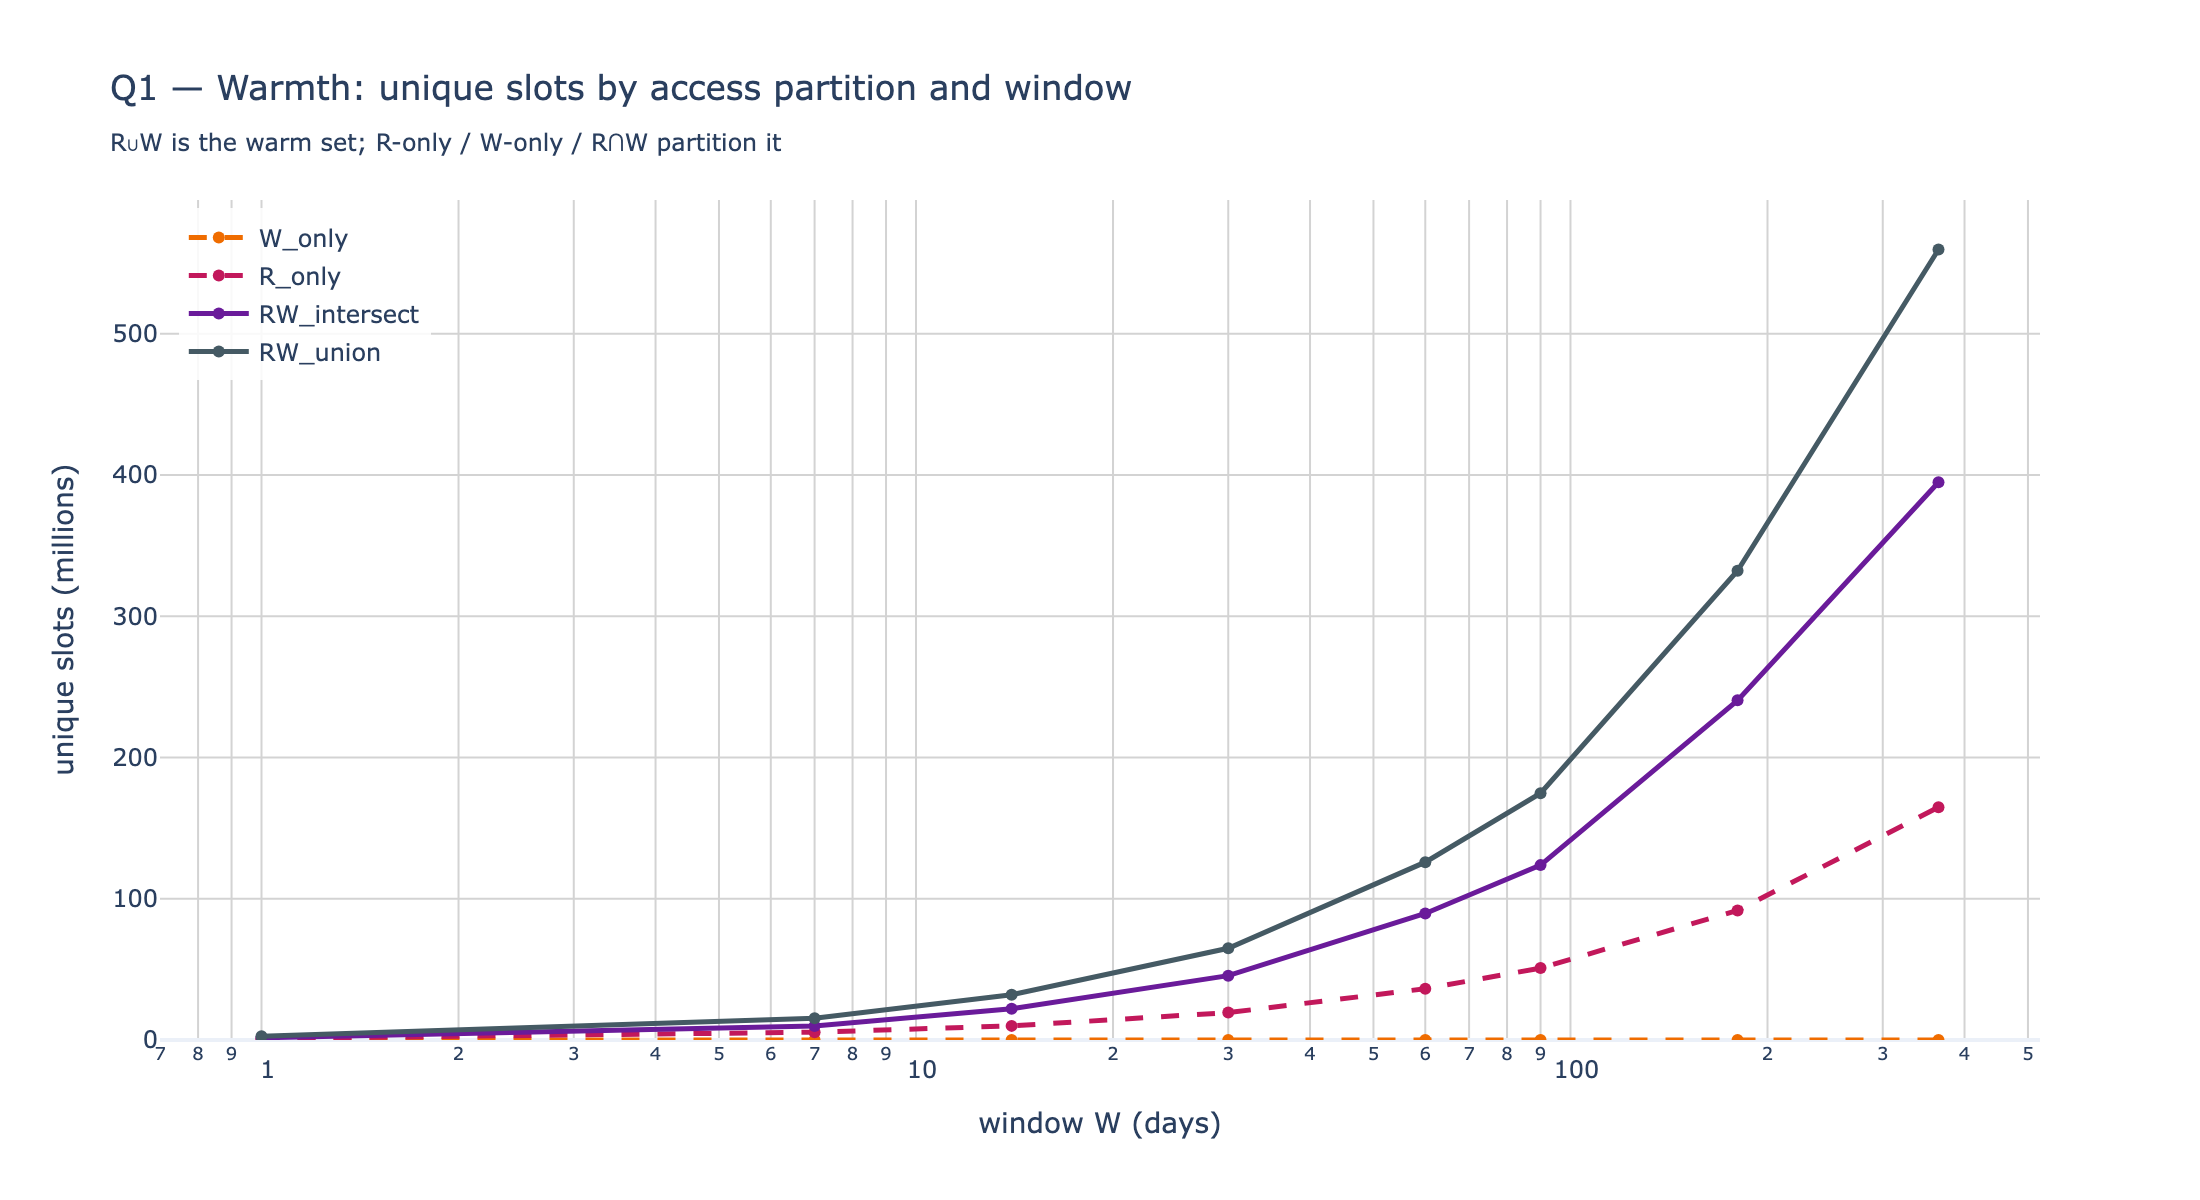
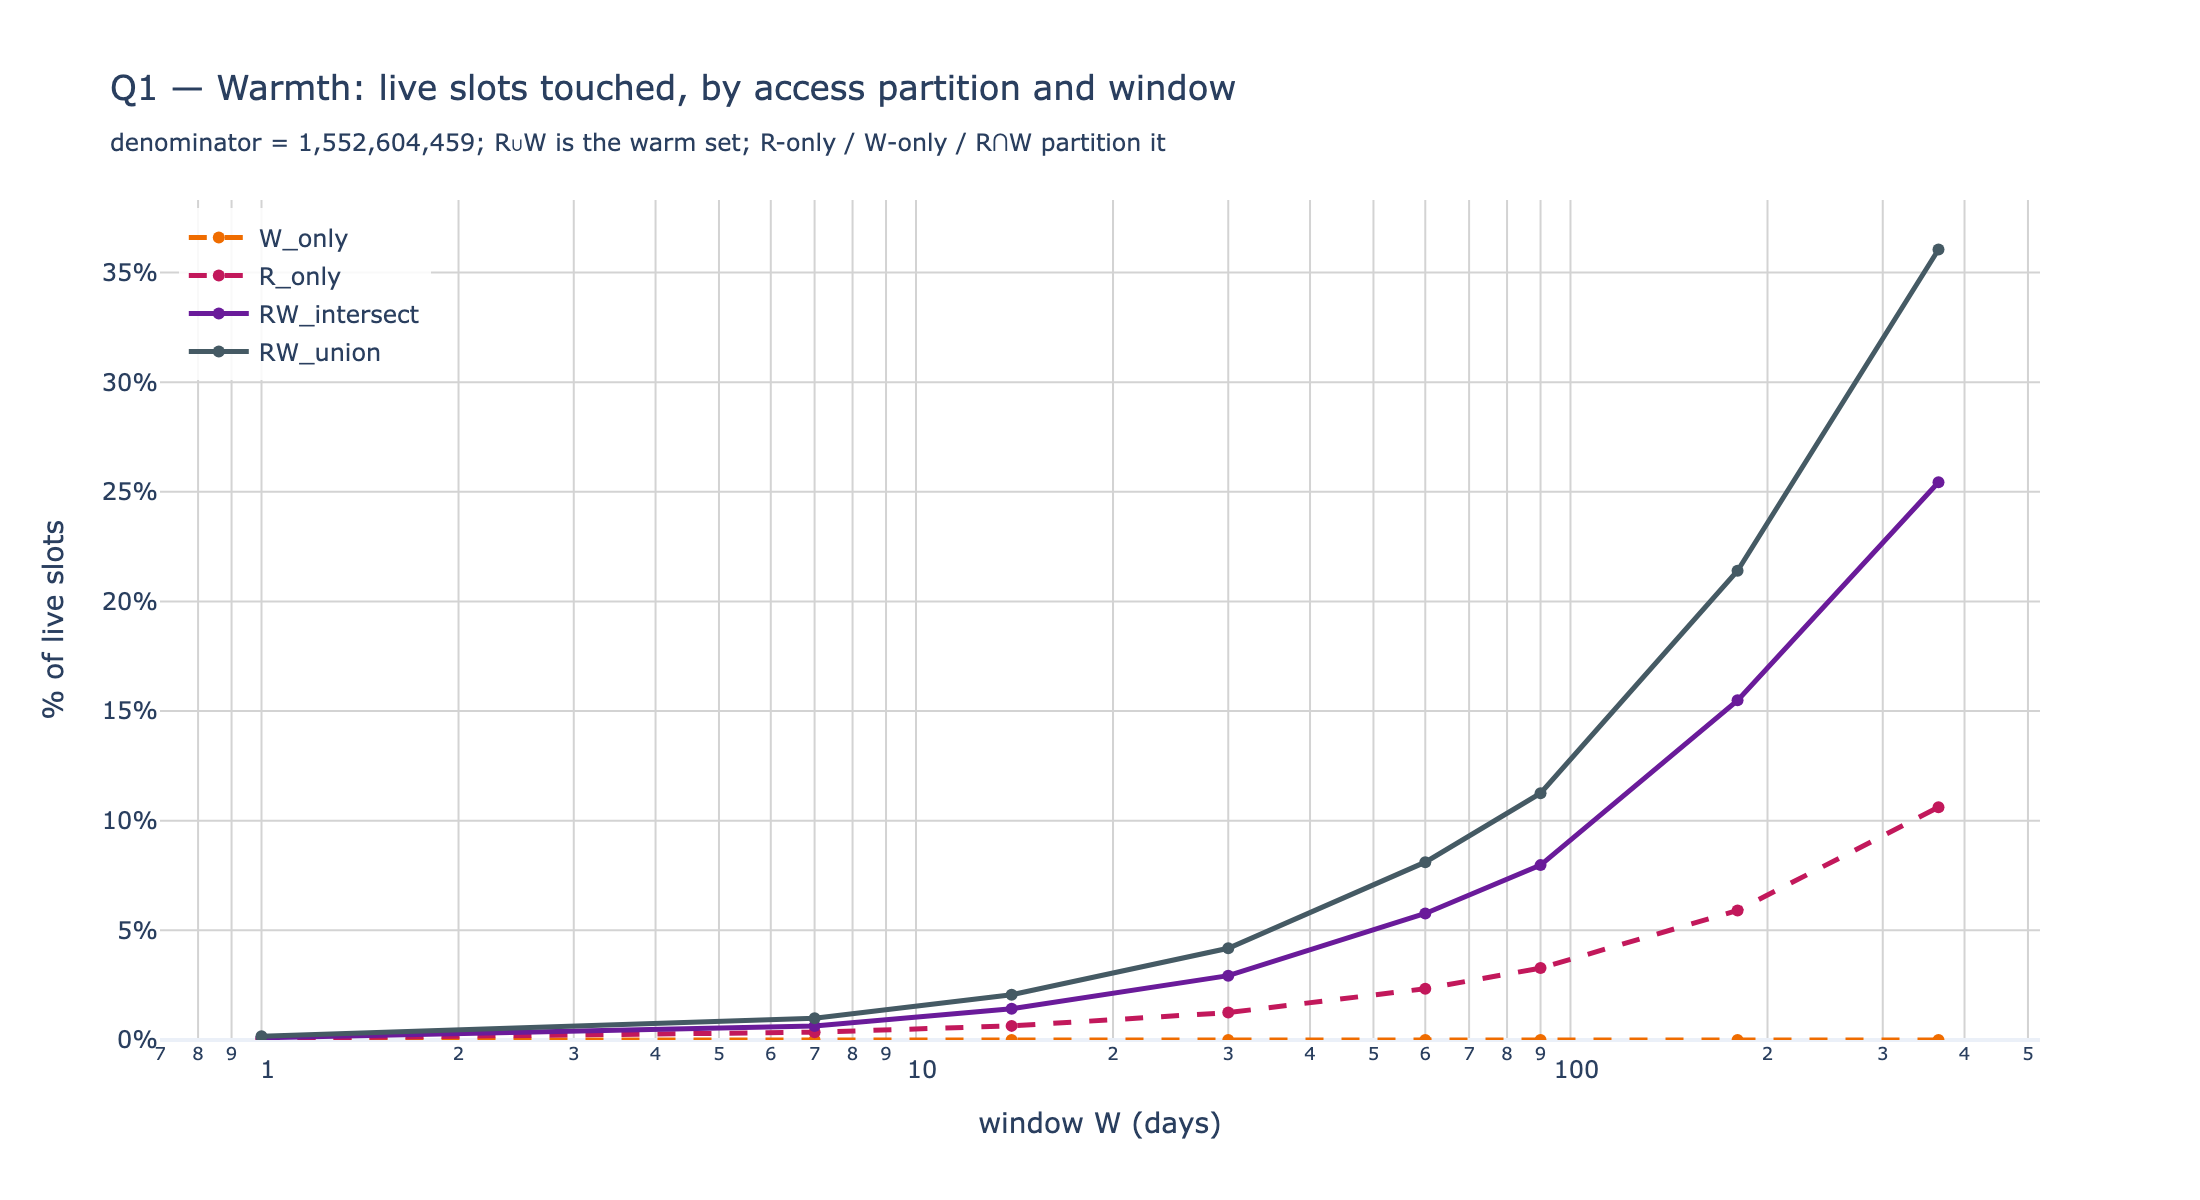
state_access v2: Q1 warmth as % of live state + combined chart
Reframes Q1 against the live-state denominator from execution_state_size at
the anchor (1.55B slots, 380M accounts, 1.93B combined). Each access-type
column now has an absolute count and a `_pct` companion in the parquet, and
the warmth chart's Y-axis is share-of-live-state rather than millions —
matching the tier-policy interpretation ("at W=30d, R∪W is 4.2% of state").

Adds q1_warmth_combined.{parquet,png}: slots ∪ accounts pooled against the
combined denominator. Lets the report state the headline figure (warm set
share of total state) directly.

Report tables for Q1 rewritten in %; new chart embedded.

diff --git a/state_access/analysis_v2.py b/state_access/analysis_v2.py
@@ -15,6 +15,7 @@ which is `(window_days, slice ∈ {w_only, r_only, rw}, n_w, n_r, n_keys)`. From
 
 from __future__ import annotations
 
+import json
 import math
 from collections.abc import Iterable
 from typing import Literal
@@ -23,7 +24,23 @@ import pandas as pd
 import plotly.graph_objs as go
 from plotly.subplots import make_subplots
 
+from state_access.config import DATA_DIR
 from state_access.config_v2 import BINS, DATA_DIR_V2, WINDOWS_V2
+
+# Live-state denominators come from `data/totals.json` (produced by the original collect.py
+# against the same anchor). We use them to express Q1 as a percentage of state size — the
+# tier-relevant framing — alongside the absolute counts.
+_TOTALS_PATH = DATA_DIR / "totals.json"
+
+
+def _load_totals() -> dict[str, int]:
+    if not _TOTALS_PATH.exists():
+        raise RuntimeError(
+            f"{_TOTALS_PATH} not found — run `uv run python -m state_access.collect` "
+            "first so the live-state totals are available."
+        )
+    with _TOTALS_PATH.open() as f:
+        return json.load(f)
 
 ACCESS_TYPES = ["W", "R", "RW_intersect", "RW_union", "W_only", "R_only"]
 ACCESS_COLORS = {
@@ -88,8 +105,13 @@ def _key_in_set(row: pd.Series, access_type: str) -> bool:
     raise ValueError(access_type)
 
 
-def q1_warmth(hist: pd.DataFrame) -> pd.DataFrame:
-    """Set sizes |W|, |R|, |R∩W|, |R∪W|, |W-only|, |R-only| per window."""
+def q1_warmth(hist: pd.DataFrame, total_live: int | None = None) -> pd.DataFrame:
+    """Set sizes |W|, |R|, |R∩W|, |R∪W|, |W-only|, |R-only| per window.
+
+    If `total_live` is given, also emits `<access_type>_pct` columns (each set's share of
+    the live-state denominator) and a `total_live` column. The pct view is the
+    tier-relevant framing — what fraction of live state ends up Active under a given W.
+    """
     rows = []
     for w in sorted(hist["window_days"].unique()):
         sub = hist[hist["window_days"] == w]
@@ -106,7 +128,27 @@ def q1_warmth(hist: pd.DataFrame) -> pd.DataFrame:
             "W_only":       w_only,
             "R_only":       r_only,
         })
-    return pd.DataFrame(rows)
+    out = pd.DataFrame(rows)
+    if total_live is not None:
+        out["total_live"] = int(total_live)
+        for at in ACCESS_TYPES:
+            out[f"{at}_pct"] = 100 * out[at] / int(total_live)
+    return out
+
+
+def q1_warmth_combined(slot_hist: pd.DataFrame, account_hist: pd.DataFrame,
+                       totals: dict[str, int]) -> pd.DataFrame:
+    """Sum slot + account warmth per window; denominator is the sum of live totals."""
+    q1_s = q1_warmth(slot_hist)
+    q1_a = q1_warmth(account_hist)
+    merged = q1_s.merge(q1_a, on="window_days", suffixes=("_slot", "_account"))
+    total_live = int(totals["storages"]) + int(totals["accounts"])
+    out = pd.DataFrame({"window_days": merged["window_days"]})
+    out["total_live"] = total_live
+    for at in ACCESS_TYPES:
+        out[at] = merged[f"{at}_slot"] + merged[f"{at}_account"]
+        out[f"{at}_pct"] = 100 * out[at] / total_live
+    return out
 
 
 def q2_composition(hist: pd.DataFrame) -> pd.DataFrame:
@@ -179,27 +221,32 @@ def q3_concentration(hist: pd.DataFrame, fractions: Iterable[float] = (0.01, 0.1
     return pd.DataFrame(rows)
 
 
-def _plot_warmth(q1: pd.DataFrame, object_type: str) -> go.Figure:
-    """4 lines: the 3 disjoint partition pieces + the union.
+def _plot_warmth(q1: pd.DataFrame, object_type: str, total_live: int) -> go.Figure:
+    """4 lines: the 3 disjoint partition pieces + the union, plotted as % of live state.
 
     Plot W, R, RW_intersect, RW_union too as derived quantities — but in practice |W| ≈
     |R∩W| for both slots and accounts on every window (every written object is also read
     in the same window), so a 6-line chart has heavy overlap. The 3-partition view is the
-    information-bearing one.
+    information-bearing one. Y-axis is % of live state under EIP-8188's denominator, so
+    "R∪W at W=30 = 4.2%" reads directly as "the Active tier under that policy is 4.2% of
+    state".
     """
     fig = go.Figure()
     primary = ["W_only", "R_only", "RW_intersect", "RW_union"]
     for at in primary:
         fig.add_trace(go.Scatter(
-            x=q1["window_days"], y=q1[at] / 1e6, name=at,
+            x=q1["window_days"], y=q1[f"{at}_pct"], name=at,
             mode="lines+markers",
             line=dict(color=ACCESS_COLORS[at], width=2.5, dash=ACCESS_DASH[at]),
         ))
+    label = "live state" if object_type == "combined" else f"live {object_type}s"
     fig.update_layout(
-        title=f"Q1 — Warmth: unique {object_type}s by access partition and window"
-              f"<br><sub>R∪W is the warm set; R-only / W-only / R∩W partition it</sub>",
+        title=f"Q1 — Warmth: {label} touched, by access partition and window"
+              f"<br><sub>denominator = {total_live:,}; R∪W is the warm set; "
+              f"R-only / W-only / R∩W partition it</sub>",
         xaxis=dict(title="window W (days)", type="log", gridcolor="lightgray"),
-        yaxis=dict(title=f"unique {object_type}s (millions)", gridcolor="lightgray", rangemode="tozero"),
+        yaxis=dict(title=f"% of {label}", ticksuffix="%",
+                   gridcolor="lightgray", rangemode="tozero"),
         template="plotly_white", width=1100, height=600,
         legend=dict(x=0.01, y=0.99, bgcolor="rgba(255,255,255,0.85)"),
     )
@@ -282,7 +329,10 @@ def _show(fig: go.Figure) -> None:
             pass
 
 
-def run_one(object_type: str) -> None:
+_TOTAL_KEY = {"slot": "storages", "account": "accounts"}
+
+
+def run_one(object_type: str, totals: dict[str, int]) -> None:
     p = DATA_DIR_V2 / f"{object_type}_histogram.parquet"
     if not p.exists():
         print(f"  no histogram at {p}; run collect_v2 first")
@@ -291,7 +341,8 @@ def run_one(object_type: str) -> None:
     print(f"\n>>> {object_type}: {len(hist):,} histogram rows over "
           f"{hist['window_days'].nunique()} windows")
 
-    q1 = q1_warmth(hist)
+    total_live = int(totals[_TOTAL_KEY[object_type]])
+    q1 = q1_warmth(hist, total_live=total_live)
     q2 = q2_composition(hist)
     q3 = q3_concentration(hist)
 
@@ -303,11 +354,12 @@ def run_one(object_type: str) -> None:
     diff = (q1["RW_union"] - (q1["W"] + q1["R"] - q1["RW_intersect"])).abs().max()
     assert diff == 0, f"identity |R∪W|=|R|+|W|-|R∩W| broken by {diff}"
     assert (q1["W"] >= 0).all() and (q1["R"] >= 0).all()
+    assert (q1["RW_union"] <= total_live).all(), "warm set exceeds live state"
     valid = q3.dropna(subset=["top_1pct_share", "top_10pct_share"])
     assert (valid["top_10pct_share"] >= valid["top_1pct_share"]).all(), \
         "top-10% must be ≥ top-1%"
 
-    fig1 = _plot_warmth(q1, object_type)
+    fig1 = _plot_warmth(q1, object_type, total_live)
     fig1.write_image(DATA_DIR_V2 / f"q1_warmth_{object_type}.png", scale=2)
     _show(fig1)
 
@@ -324,10 +376,45 @@ def run_one(object_type: str) -> None:
     _show(fig3b)
 
 
+def run_combined(totals: dict[str, int]) -> None:
+    """Q1-only chart pooling slots + accounts as 'state objects'.
+
+    Denominator: live storages + live accounts. The combined view is the natural
+    tier-policy denominator: "what fraction of all state objects (slots ∪ accounts) ends
+    up Active under each W?".
+    """
+    slot_p = DATA_DIR_V2 / "slot_histogram.parquet"
+    account_p = DATA_DIR_V2 / "account_histogram.parquet"
+    if not (slot_p.exists() and account_p.exists()):
+        print("  combined chart needs both slot + account histograms; skipping")
+        return
+    slot_hist = pd.read_parquet(slot_p)
+    account_hist = pd.read_parquet(account_p)
+    q1c = q1_warmth_combined(slot_hist, account_hist, totals)
+    q1c.to_parquet(DATA_DIR_V2 / "q1_warmth_combined.parquet", index=False)
+
+    total_live = int(q1c["total_live"].iloc[0])
+    diff = (q1c["RW_union"] - (q1c["W"] + q1c["R"] - q1c["RW_intersect"])).abs().max()
+    assert diff == 0, f"combined identity broken by {diff}"
+    assert (q1c["RW_union"] <= total_live).all(), "combined warm set exceeds total state"
+
+    fig = _plot_warmth(q1c, "combined", total_live)
+    fig.write_image(DATA_DIR_V2 / "q1_warmth_combined.png", scale=2)
+    _show(fig)
+    print(f"  combined: warm-set share ranges "
+          f"{q1c['RW_union_pct'].min():.2f}% (W={q1c.iloc[0]['window_days']}d) → "
+          f"{q1c['RW_union_pct'].max():.2f}% (W={q1c.iloc[-1]['window_days']}d)")
+
+
 def main() -> None:
     DATA_DIR_V2.mkdir(parents=True, exist_ok=True)
+    totals = _load_totals()
+    print(f"Live-state totals @ block {totals['snapshot_block']:,}: "
+          f"{totals['accounts']:,} accounts, {totals['storages']:,} slots")
     for object_type in ("slot", "account"):
-        run_one(object_type)
+        run_one(object_type, totals)
+    print("\n>>> combined")
+    run_combined(totals)
     print(f"\nDone. Charts + Q-parquets under {DATA_DIR_V2}")
 
 

diff --git a/state_access/REPORT_v2.md b/state_access/REPORT_v2.md
@@ -15,18 +15,18 @@ on the local cluster. Windows: `W ∈ {1, 7, 14, 30, 60, 90, 180, 365}` days. Ob
 ## 1. Summary
 
 - **Reads dominate the warm set.** For both slots and accounts, the read-set `R` is roughly
-  **1.4× the size of the write-set `W`** at every W. At W=30d, slots have 45.5M writers
-  but 65.0M readers; at W=365d, 395M vs 560M. The fraction of the warm set you'd miss by
-  using writes-only as the "hot" definition is consistently **~30%**.
+  **1.4× the size of the write-set `W`** at every W. The warm set (`R∪W`) reaches
+  **4.3% of all live state at W=30d** and **35.2% at W=365d** (combined accounts + slots).
+  Using writes-only as the "hot" definition would miss ~30% of the warm set.
 - **There are essentially no W-only objects.** Almost every object written in window `W` is
   also read in the same window. At W ≤ 90d there are zero W-only slots; at W=180d only
   ~20k slots are write-without-read out of 240M total. Same for accounts. The
   SLOAD-before-SSTORE pattern is near-universal, and on the account side every transacting
   account also appears in at least one read relationship (`tx_from`, `call_from`, etc.).
 - **R-only is the meaningful "extra" the reads data unlocks.** It captures the asymmetric
-  half of the warm set — objects being inspected but not modified. **165M slots / 17M
-  accounts** at W=365d are read-only-hot. These are immutable parameters, oracle reads,
-  ENS lookups, view-function targets.
+  half of the warm set — objects being inspected but not modified. R-only reaches
+  **10.6% of slots / 4.5% of accounts / 9.4% combined** at W=365d. These are immutable
+  parameters, oracle reads, ENS lookups, view-function targets.
 - **Slot accesses are heavily concentrated.** At W=30d, the top 1% of accessed slots
   captures **76% of reads / 62% of writes**. By W=365d these rise to 82% / 68%.
   Concentration *grows* with W rather than diluting, because the dense head doesn't move
@@ -94,35 +94,52 @@ rows max) where Q1 / Q2 / Q3 are derived. Code: `state_access/queries_v2.py`,
 
 ## 4. Q1 — Warmth (set sizes)
 
-Per `(access_type, W, object_type)` unique counts. Slots first (millions of unique
-`(contract, slot)` pairs):
+Per `(access_type, W, object_type)`, set size as a share of the live-state denominator.
+Live-state totals come from `execution_state_size` at the anchor: **1,552,604,459 slots**,
+**379,632,901 accounts**, **1,932,237,360 combined** (block 24,870,000).
+
+**Slots** (% of 1.55B live slots):
 
 | W (days) | R∪W | R∩W | R-only | W-only |
 |---:|---:|---:|---:|---:|
-| 1   |   2.6 |   1.5 |   1.0 |      0 |
-| 7   |  15.4 |   9.9 |   5.5 |      0 |
-| 14  |  32.1 |  22.1 |  10.0 |      0 |
-| 30  |  65.0 |  45.5 |  19.4 |      0 |
-| 60  | 125.9 |  89.6 |  36.3 |      0 |
-| 90  | 174.7 | 123.8 |  50.9 |      0 |
-| 180 | 332.2 | 240.5 |  91.7 | 19,793 |
-| 365 | 559.7 | 394.9 | 164.8 | 19,736 |
+| 1   |  0.17% |  0.10% |  0.07% | 0.000% |
+| 7   |  0.99% |  0.64% |  0.36% | 0.000% |
+| 14  |  2.07% |  1.42% |  0.64% | 0.000% |
+| 30  |  4.18% |  2.93% |  1.25% | 0.000% |
+| 60  |  8.11% |  5.77% |  2.34% | 0.000% |
+| 90  | 11.26% |  7.98% |  3.28% | 0.000% |
+| 180 | 21.40% | 15.49% |  5.91% | 0.001% |
+| 365 | 36.05% | 25.43% | 10.61% | 0.001% |
 
-Accounts (millions of unique addresses; W-only column is raw count, not millions):
+**Accounts** (% of 380M live accounts):
 
 | W (days) | R∪W | R∩W | R-only | W-only |
 |---:|---:|---:|---:|---:|
-| 1   |   0.9 |   0.7 |   0.1 |  0 |
-| 7   |   4.9 |   4.3 |   0.6 |  0 |
-| 14  |   8.4 |   7.3 |   1.1 |  0 |
-| 30  |  17.2 |  15.4 |   1.7 |  0 |
-| 60  |  31.5 |  28.9 |   2.6 |  0 |
-| 90  |  46.8 |  43.5 |   3.3 |  0 |
-| 180 |  80.3 |  72.3 |   8.1 | 32 |
-| 365 | 120.9 | 103.8 |  17.0 |  0 |
+| 1   |  0.23% |  0.19% |  0.04% | 0.000% |
+| 7   |  1.29% |  1.13% |  0.15% | 0.000% |
+| 14  |  2.21% |  1.93% |  0.28% | 0.000% |
+| 30  |  4.53% |  4.07% |  0.46% | 0.000% |
+| 60  |  8.29% |  7.60% |  0.69% | 0.000% |
+| 90  | 12.34% | 11.46% |  0.88% | 0.000% |
+| 180 | 21.16% | 19.04% |  2.12% | 0.000% |
+| 365 | 31.84% | 27.35% |  4.49% | 0.000% |
+
+**Combined** — pooling slots + accounts against the combined denominator (1.93B):
+
+| W (days) | R∪W | R∩W | R-only | W-only |
+|---:|---:|---:|---:|---:|
+| 1   |  0.18% |  0.12% |  0.06% | 0.000% |
+| 7   |  1.05% |  0.74% |  0.32% | 0.000% |
+| 14  |  2.10% |  1.52% |  0.57% | 0.000% |
+| 30  |  4.25% |  3.16% |  1.10% | 0.000% |
+| 60  |  8.15% |  6.13% |  2.02% | 0.000% |
+| 90  | 11.47% |  8.66% |  2.81% | 0.000% |
+| 180 | 21.35% | 16.19% |  5.17% | 0.001% |
+| 365 | 35.22% | 25.81% |  9.41% | 0.001% |
 
 ![Q1 warmth — slots](data/v2/q1_warmth_slot.png)
 ![Q1 warmth — accounts](data/v2/q1_warmth_account.png)
+![Q1 warmth — combined](data/v2/q1_warmth_combined.png)
 
 The four lines are the partition pieces; `R∪W` is the warm set, `R∩W` is the "truly
 active" sub-tier. Two observations:
